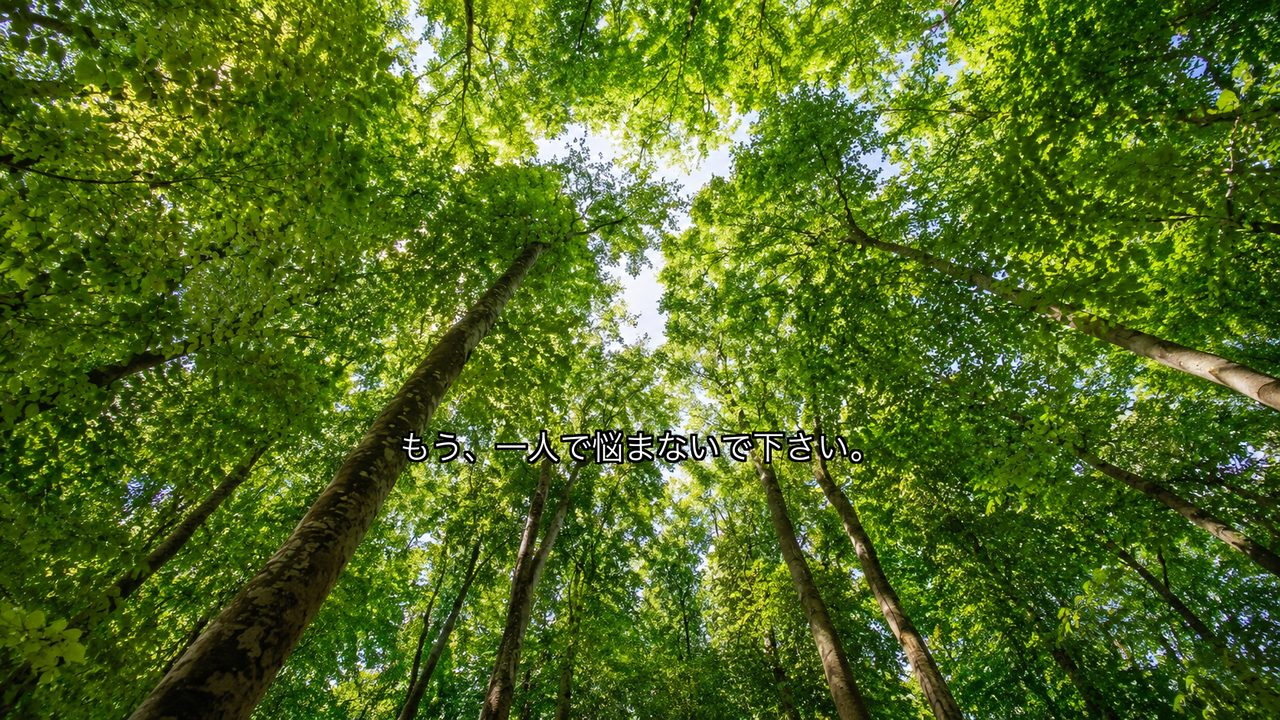
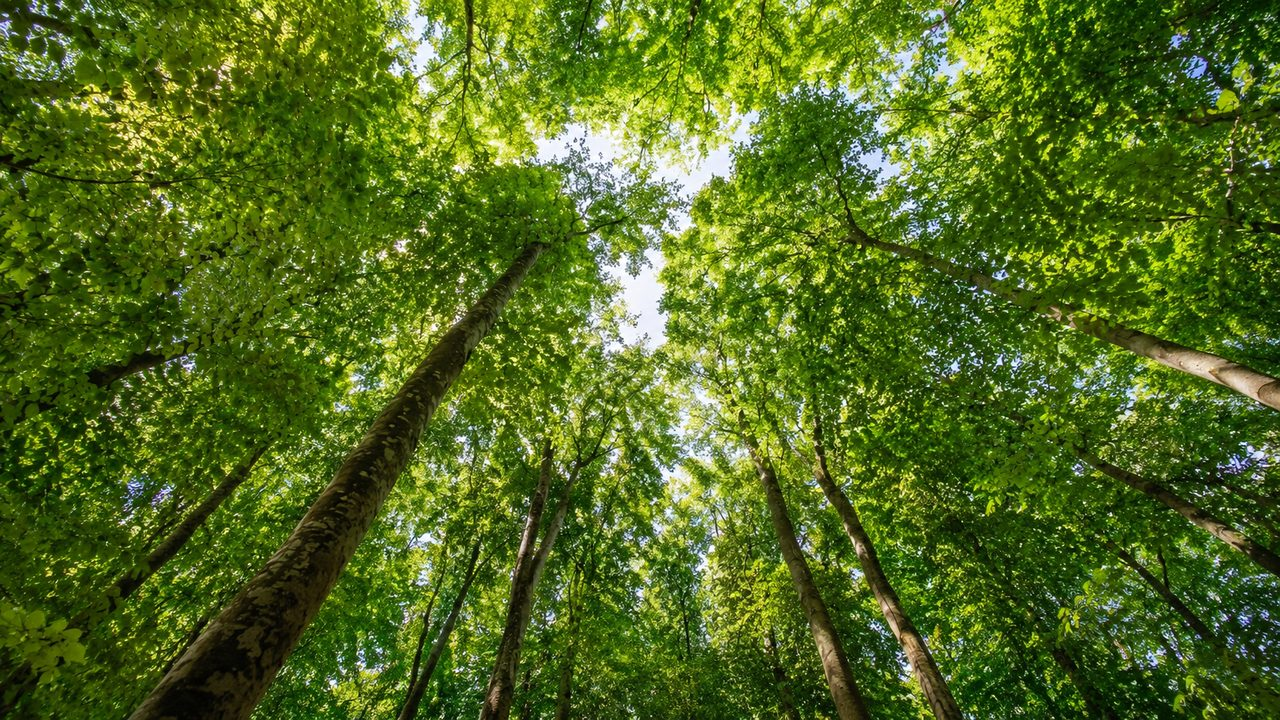
仙台オアシス v5.28e: s01のテロップを撤去（テキストなしの綺麗な緑見上げ）

Changed region(s): [[0.3125, 0.5806, 0.6875, 0.6417]]

diff --git a/sendai-oasis-storyboard.html b/sendai-oasis-storyboard.html
@@ -169,9 +169,9 @@
   <div class="scene">
     <img src="sendai-oasis-images/s01_oasis_intro.jpg" alt="s01">
     <div class="body">
-      <div class="sec">SCENE 01 ／ 0–4s ／ OPENING①（フェリシテHERO①強寄せ・緑見上げ・中央に光）</div>
-      <div class="telop">もう、一人で悩まないで下さい。<span style="color:var(--muted); font-weight:normal;">（焼込済）</span></div>
-      <div class="tags"><span>緑基調</span><span>見上げ構図</span><span>中央に光のぬけ</span><span>フェリシテHERO①強寄せ</span><span>ナレーション開始</span></div>
+      <div class="sec">SCENE 01 ／ 0–4s ／ OPENING①（緑見上げ・テキストなし）</div>
+      <div class="telop">（テロップなし／空間と光のみ）</div>
+      <div class="tags"><span>緑基調</span><span>見上げ構図</span><span>中央に光のぬけ</span><span>テロップなし</span><span>ナレーション開始</span></div>
       <div class="narr">…実は一人で、ずっと、悩みを抱えていませんか。</div>
     </div>
   </div>
